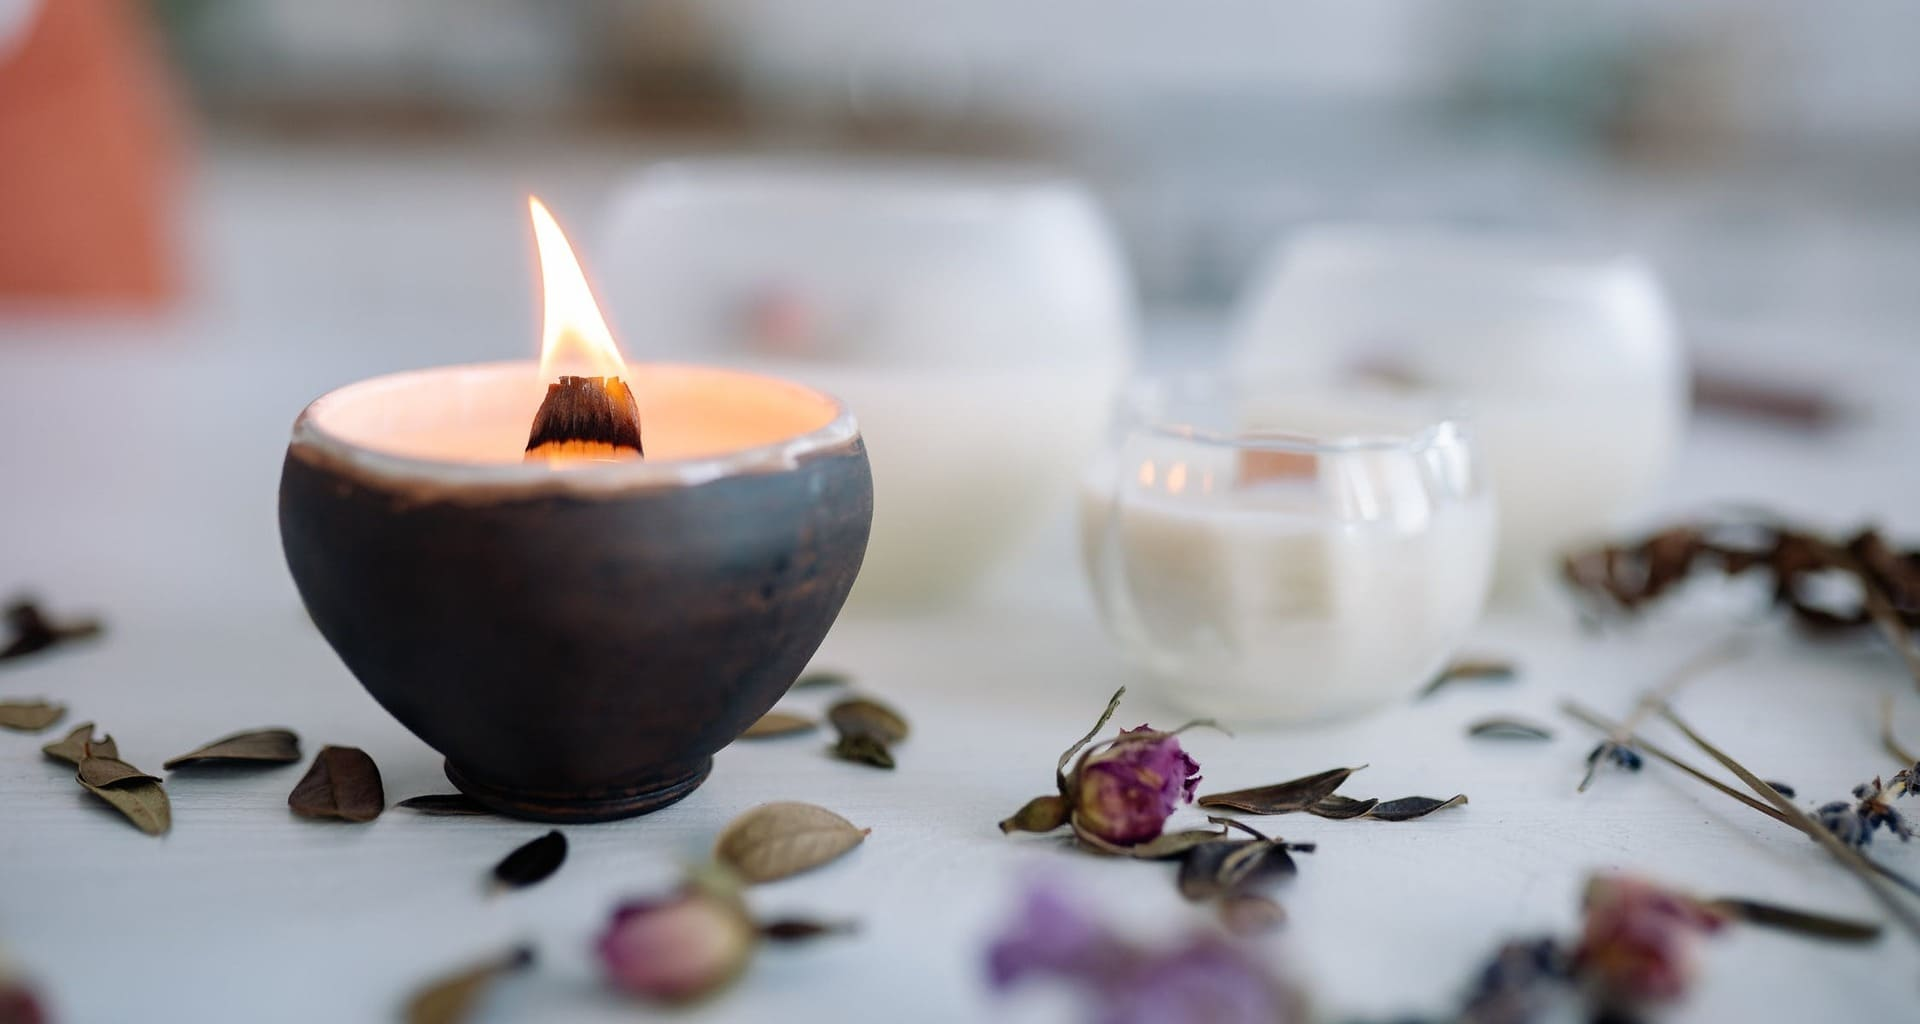
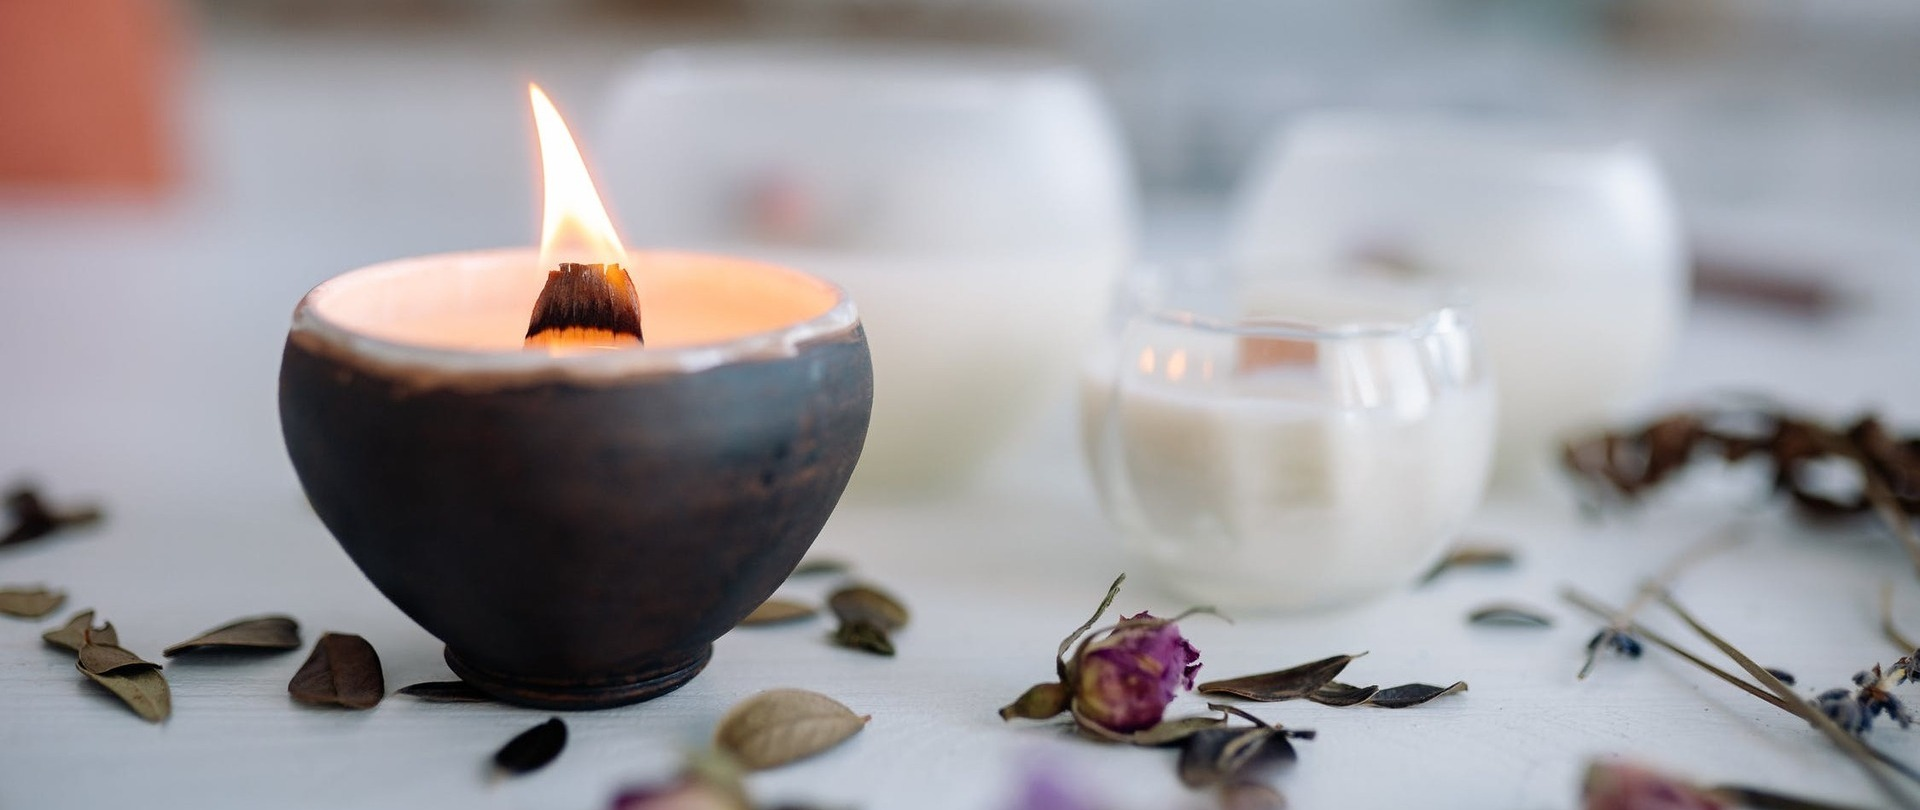
optimización de imágenes

diff --git a/tienda.html b/tienda.html
@@ -51,16 +51,16 @@
             </div>
             <div class="carousel-inner">
                 <div class="carousel-item active">
-                    <img src="carrousel/carrousel0.jpg" class="d-block w-100" alt="Yoga, meditación, bienestar, Velas" loading="lazy"> 
+                    <img srcset="assets/slide1_mobile.jpeg 810w, assets/slide1_desktop.jpeg 1920w" src="assets/slide1_desktop.jpeg" class="d-block w-100" alt="Yoga, meditación, bienestar, Velas" loading="lazy"> 
                 </div>
                 <div class="carousel-item">
-                    <img src="carrousel/carrousel1.jpeg" class="d-block w-100" alt="Velas, concentración, relajación" loading="lazy"> 
+                    <img srcset="assets/slide3_mobile.jpeg 810w, assets/slide3_desktop.jpeg 1920w" src="assets/resized3.jpeg" class="d-block w-100" alt="Velas, concentración, relajación" loading="lazy"> 
                 </div>
                 <div class="carousel-item">
-                    <img src="carrousel/carrousel2.jpg" class="d-block w-100" alt="Armonización, cuencos tibetanos" loading="lazy">
+                    <img srcset="assets/slide2_mobile.jpeg 810w, assets/slide2_desktop.jpeg 1920w" src="assets/slide2_desktop.jpeg" class="d-block w-100" alt="Velas, concentración, relajación" loading="lazy"> 
                 </div>
                 <div class="carousel-item">
-                    <img src="carrousel/carrousel4.jpg" class="d-block w-100" alt="decoración, zen, aromaterapia" loading="lazy">
+                    <img srcset="assets/slide4_mobile.jpeg 810w, assets/slide4_desktop.jpeg 1920w" src="assets/slide4_desktop.jpeg" class="d-block w-100" alt="decoración, zen, cuencos tibetanos" loading="lazy">
                 </div>
             </div>
         </div>
@@ -80,7 +80,7 @@
     <section class="container-fluid row mx-auto">  
         <div class="row d-flex justify-content-evenly my-2 col-12 col-lg-10 mx-auto"> <!-- Segunda fila de productos -->
             <div class="card my-3 mx-2 card-transform mycard" >
-                <img src="img_tienda/tienda1difusor.jpg" class="card-img-top myimg" alt="Difusor aromático" loading="lazy">
+                <img src="assets/tienda1_difusor.jpeg" class="card-img-top myimg" alt="Difusor aromático" loading="lazy">
                 <div class="card-body shadow-lg p-3 mb-5 bg-body rounded">
                     <p class="card-text">Difursor aromático de ambientes</p>
                     <button type="button" class="btn btn-primary myBtn" data-bs-toggle="modal" data-bs-target="#myModal">Comprar</button>
@@ -100,21 +100,21 @@
                 </div>
             </div>
             <div class="card my-3 mx-2 card-transform mycard ">
-                <img src="img_tienda/tienda2cuenco.jpg" class="card-img-top myimg" alt="Cuenco tibetano" loading="lazy">
+                <img src="assets/tienda2_cuenco.jpeg" class="card-img-top myimg" alt="Cuenco tibetano" loading="lazy">
                 <div class="card-body shadow-lg p-3 mb-5 bg-body rounded">
                   <p class="card-text">Cuenco tibetano</p>
                   <a href="#" class="btn btn-primary stretched-link myBtn">Comprar</a>
                 </div>
             </div>
             <div class="card my-3 mx-2 card-transform mycard">
-                <img src="img_tienda/tienda3aceites.jpg" class="card-img-top myimg" alt="Aceites esenciales" loading="lazy">
+                <img src="assets/tienda3_aceites.jpeg" class="card-img-top myimg" alt="Aceites esenciales" loading="lazy">
                 <div class="card-body shadow-lg p-3 mb-5 bg-body rounded">
                   <p class="card-text">Aceites esenciales cítricos</p>
                   <a href="clases.html" class="btn btn-primary stretched-link myBtn">Comprar</a>
                 </div>
             </div>
             <div class="card my-3 mx-2 card-transform mycard">
-                <img src="img_tienda/tienda4humificador.jpg" class="card-img-top myimg" alt="Vaporizador de ambientes" loading="lazy">
+                <img src="assets/tienda4_humificador.jpeg" class="card-img-top myimg" alt="Vaporizador de ambientes" loading="lazy">
                 <div class="card-body shadow-lg p-3 mb-5 bg-body rounded">
                   <p class="card-text">Humificador de ambientes </p>
                   <a href="index.html" class="btn btn-primary stretched-link myBtn">Comprar</a>
@@ -122,28 +122,28 @@
             </div>
 
             <div class="card my-3 mx-2 card-transform mycard">
-                <img src="img_tienda/tienda5sahumos.jpg" class="card-img-top myimg" alt="Sahumos artesanales" loading="lazy">
+                <img src="assets/tienda5_sahumos.jpeg" class="card-img-top myimg" alt="Sahumos artesanales" loading="lazy">
                 <div class="card-body shadow-lg p-3 mb-5 bg-body rounded">
                   <p class="card-text">Sahumos para limpieza energética del Hogar</p>
                   <a href="#" class="btn btn-primary stretched-link myBtn">Comprar</a>
                 </div>
             </div>
             <div class="card my-3 mx-2 card-transform mycard">
-                <img src="img_tienda/tienda6porta.jpg" class="card-img-top myimg" alt="Porta Sahumerios" loading="lazy">
+                <img src="assets/tienda6_porta.jpeg" class="card-img-top myimg" alt="Porta Sahumerios" loading="lazy">
                 <div class="card-body shadow-lg p-3 mb-5 bg-body rounded">
                   <p class="card-text">Porta Sahumerios con dijes</p>
                   <a href="#" class="btn btn-primary stretched-link myBtn">Comprar</a>
                 </div>
             </div>
             <div class="card my-3 mx-2 card-transform mycard">
-                <img src="img_tienda/tienda7piedras.jpg" class="card-img-top myimg" alt="Piedras energéticas" loading="lazy">
+                <img src="assets/tienda7_piedras.jpeg" class="card-img-top myimg" alt="Piedras energéticas" loading="lazy">
                 <div class="card-body shadow-lg p-3 mb-5 bg-body rounded">
                   <p class="card-text">Piedras Semipreciosas</p>
                   <a href="#" class="btn btn-primary stretched-link myBtn">Comprar</a>
                 </div>
             </div>
             <div class="card my-3 mx-2 card-transform mycard">
-                <img src="img_tienda/tienda8buda.jpg" class="card-img-top myimg" alt="Buda decorativo" loading="lazy">
+                <img src="assets/tienda8_buda.jpeg" class="card-img-top myimg" alt="Buda decorativo" loading="lazy">
                 <div class="card-body shadow-lg p-3 mb-5 bg-body rounded">
                   <p class="card-text">Buda de Yeso</p>
                   <a href="#" class="btn btn-primary stretched-link myBtn">Comprar</a>

diff --git a/scss/style.scss b/scss/style.scss
@@ -404,16 +404,20 @@ body{
     background-attachment: fixed;
     position: relative;
 }
-/*Carrousel*/
+/*Carrousel
 .mycarousel{
-    max-height: 70vh;
+    /*max-height:810px;
+    object-fit: cover;
     img{
-        max-height: 1300px;
-        object-fit: contain;
+        mask-image: linear-gradient(to right, #fb30f1d3, #003f50d7);
+.header_content.background_index.background_index-tienda    }
+    @media all and (min-width: 1200px){
+        max-height: 1000px;
     }
-}
+}*/
 .carousel.slide{
     overflow: hidden;
+    
 }
 .mycard{
     background-color: #EDEDEE;
@@ -421,9 +425,10 @@ body{
     width: 23rem;
     .myimg{
         border-top-left-radius: calc(3.25rem - 1px);
+        object-fit: contain;
         margin: 0;
         padding: 0;
-        --bs-gutter-x:0;
+        --bs-gutter-x: 0;
     }
     .myBtn{
         background-color: $colorVerde;

diff --git a/css/style.css b/css/style.css
@@ -539,17 +539,17 @@ body {
   position: relative;
 }
 
-/*Carrousel*/
-.mycarousel {
-  max-height: 70vh;
-}
-
-.mycarousel img {
-  max-height: 1300px;
-  -o-object-fit: contain;
-     object-fit: contain;
-}
-
+/*Carrousel
+.mycarousel{
+    /*max-height:810px;
+    object-fit: cover;
+    img{
+        mask-image: linear-gradient(to right, #fb30f1d3, #003f50d7);
+.header_content.background_index.background_index-tienda    }
+    @media all and (min-width: 1200px){
+        max-height: 1000px;
+    }
+}*/
 .carousel.slide {
   overflow: hidden;
 }
@@ -562,9 +562,11 @@ body {
 
 .mycard .myimg {
   border-top-left-radius: calc(3.25rem - 1px);
+  -o-object-fit: contain;
+     object-fit: contain;
   margin: 0;
   padding: 0;
-  --bs-gutter-x:0;
+  --bs-gutter-x: 0;
 }
 
 .mycard .myBtn {
